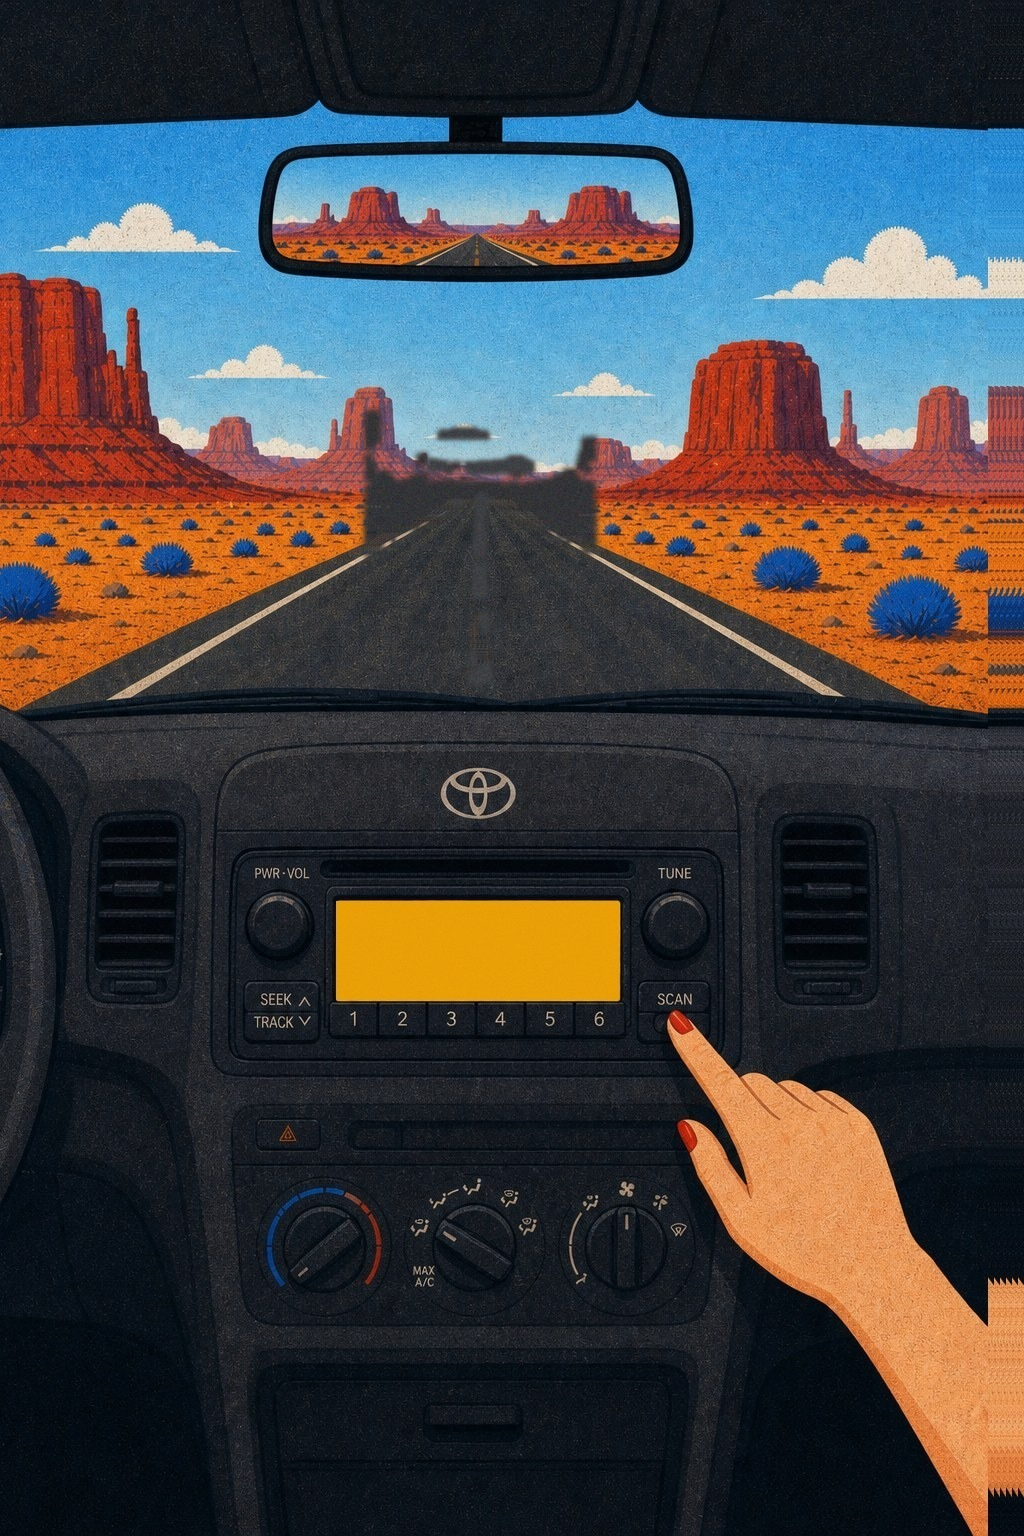
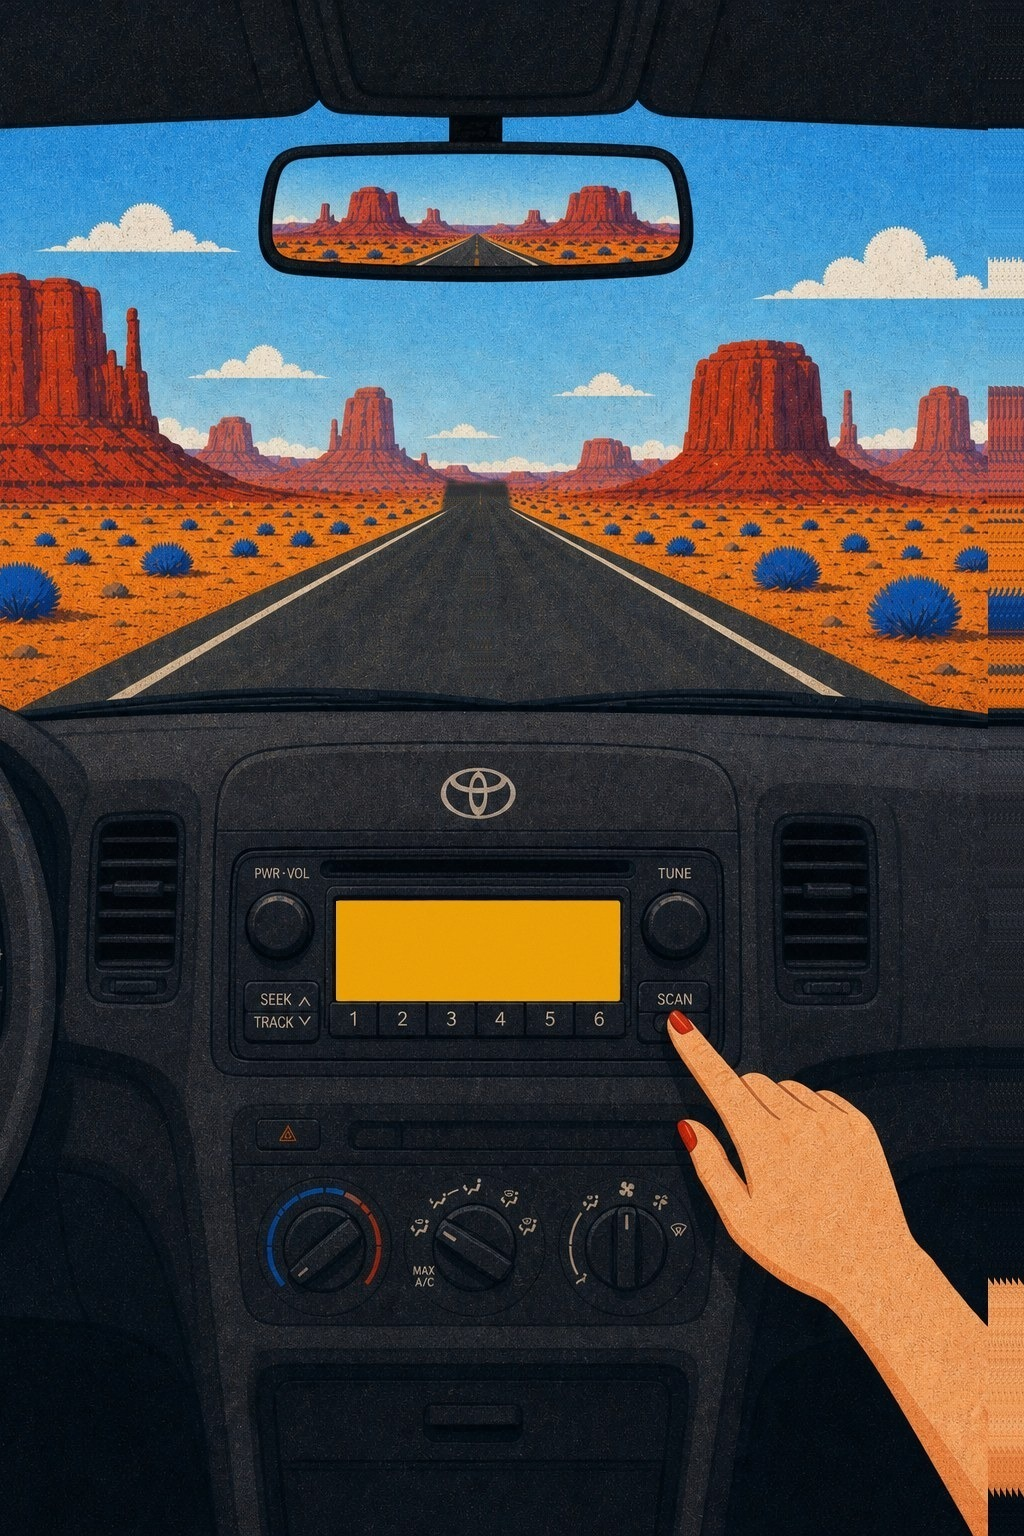
fix: strip hero centerline paint and soften dash fade
Remove remaining ochre road dashes from the artwork and fade motion
marks earlier so static and animated yellow no longer stack.

Changed region(s): [[0.3438, 0.25, 0.5938, 0.375]]

diff --git a/src/components/HomeCanvas.tsx b/src/components/HomeCanvas.tsx
@@ -147,9 +147,9 @@ export function HomeCanvas() {
       className="relative h-[100svh] w-full overflow-hidden bg-[#1a1a1a]"
     >
       <picture>
-        <source srcSet={`${BASE}/hero-car-road.webp?v=10`} type="image/webp" />
+        <source srcSet={`${BASE}/hero-car-road.webp?v=12`} type="image/webp" />
         <img
-          src={`${BASE}/hero-car-road.jpg?v=10`}
+          src={`${BASE}/hero-car-road.jpg?v=12`}
           alt=""
           className={
             layout

diff --git a/src/app/globals.css b/src/app/globals.css
@@ -130,16 +130,16 @@ h3::selection {
   -webkit-mask-image: linear-gradient(
     to bottom,
     transparent 0%,
-    #000 10%,
-    #000 70%,
-    transparent 100%
+    #000 12%,
+    #000 62%,
+    transparent 92%
   );
   mask-image: linear-gradient(
     to bottom,
     transparent 0%,
-    #000 10%,
-    #000 70%,
-    transparent 100%
+    #000 12%,
+    #000 62%,
+    transparent 92%
   );
   background: transparent;
 }
